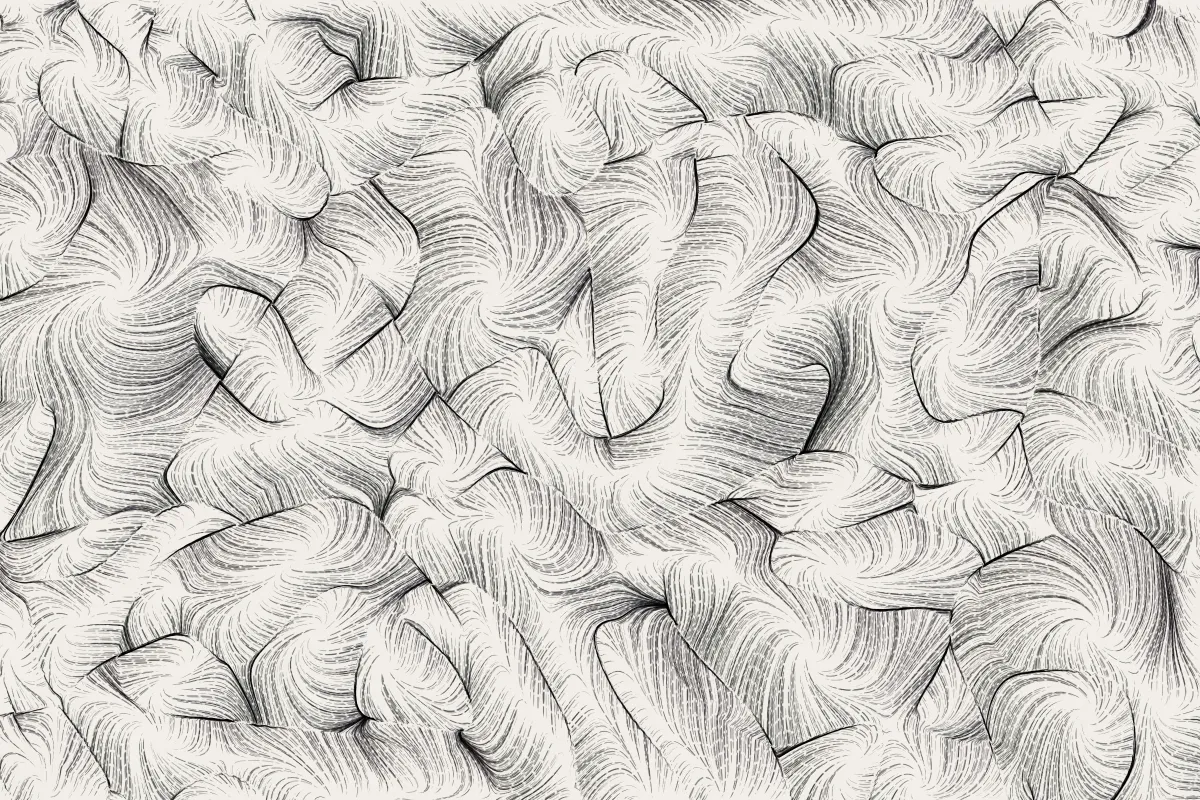
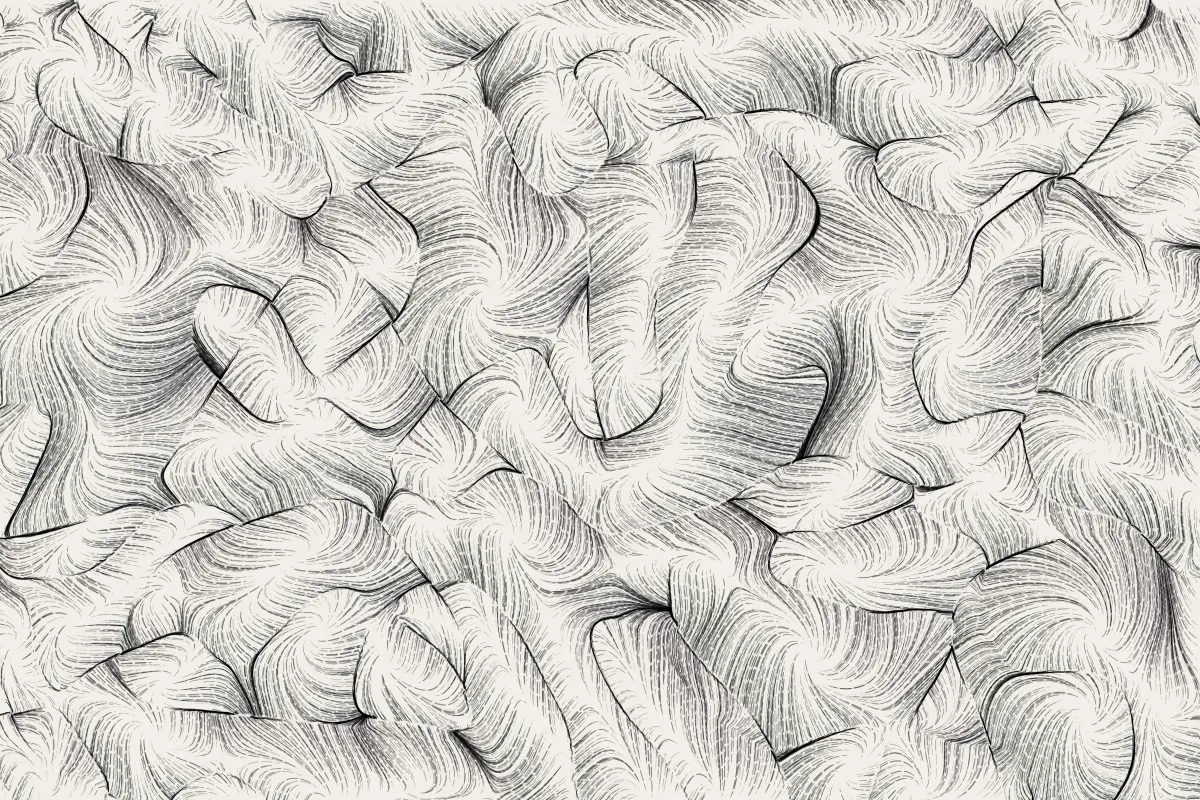
deploy: Jermolene/blog@98b68d79f772f2c87fe3692a0ab81c4a61357746

diff --git a/toys/swelled-rules/index.html b/toys/swelled-rules/index.html
@@ -412,6 +412,100 @@ function paint(g, s, W, H, marginFrac=.055, view=null) {
   }
   return {ox, oy, sc, W, H, fitSc, bw:b.w, bh:b.h};
 }
+// ---- Moving smoothly between states
+// A "spec" is either a state or {a, b, e}: the way from spec a to spec b, e of the way along (eased). Every value is
+// read through it, so a change made mid-way carries on from whatever was on screen. Numbers and colours are mixed;
+// the rule and column counts become fractional, an extra rule or column growing from nothing; a column's falling and
+// rising layers each have a presence, 0 to 1, that scales their rise, weight and bands, so a falling column turns
+// rising by flattening and lifting again; the weight and spacing curves are mixed as functions; band colours are
+// mixed rule by rule, a gap fading.
+const TWEEN_MS = 650;
+const ease = t => t < .5 ? 4*t*t*t : 1 - Math.pow(-2*t+2, 3)/2;
+const lerp = (a, b, t) => a + (b-a)*t;
+const rgbOf = hex => { const v = parseInt((hex || "#000000").slice(1), 16); return [v>>16 & 255, v>>8 & 255, v & 255]; };
+const rgbCss = c => `rgb(${c.map(Math.round).join(",")})`;
+const isMix = x => x && x.e !== undefined;
+const mixNum = (x, f) => isMix(x) ? lerp(mixNum(x.a, f), mixNum(x.b, f), x.e) : f(x);
+const mixRgb = (x, f) => { if (!isMix(x)) return f(x); const a = mixRgb(x.a, f), b = mixRgb(x.b, f); return a.map((v, i) => lerp(v, b[i], x.e)); };
+const mixBool = (x, k) => isMix(x) ? mixBool(x.e < .5 ? x.a : x.b, k) : x[k];
+const curveCache = new WeakMap();
+const curveOf = (s, k) => { let c = curveCache.get(s[k]); if (!c) curveCache.set(s[k], c = curveFn(s[k])); return c; };
+const colsLen = x => isMix(x) ? Math.max(colsLen(x.a), colsLen(x.b)) : x.cols.length;
+const layerOf = (s, c, rising) => { const t = s.cols[c]; return t === "x" || t === (rising ? "u" : "d") ? 1 : 0; };
+// a band's colour and presence, for rule i of a layer
+function bandOf(x, i, rising) {
+  if (!isMix(x)) { const seq = bandsOf(x, rising), c = seq[i % seq.length]; return c ? [...rgbOf(c), 1] : null; }
+  const a = bandOf(x.a, i, rising), b = bandOf(x.b, i, rising);
+  if (!a && !b) return null;
+  const A = a || [...b.slice(0, 3), 0], B = b || [...a.slice(0, 3), 0];
+  return A.map((v, k) => lerp(v, B[k], x.e));
+}
+// a flat, drawable picture of a spec
+function flatten(x) {
+  const num = k => mixNum(x, s => s[k]), D = {};
+  for (const k of ["w","p","rise","k","t","hair","stagger","spineW","tail","alpha"]) D[k] = num(k);
+  for (const k of ["paper","rule","spineC"]) D[k] = rgbCss(mixRgb(x, s => rgbOf(s[k])));
+  D.blend = mixBool(x, "blend"); D.riseOnTop = mixBool(x, "riseOnTop");
+  D.spineF = mixNum(x, s => s.spine ? 1 : 0);
+  D.n = num("n"); D.colsN = mixNum(x, s => s.cols.length); // only for the stagger's place in the height
+  const L = colsLen(x);
+  D.lay = Array.from({length:L}, (_, c) => [false, true].map(r => mixNum(x, s => c < s.cols.length ? layerOf(s, c, r) : 0)));
+  // a column that is coming or going narrows to nothing, so the others close up
+  D.cw = Array.from({length:L}, (_, c) => D.w*mixNum(x, s => c < s.cols.length ? 1 : 0));
+  D.cx = D.cw.map((_, c) => D.cw.slice(0, c).reduce((a, v) => a + v, 0));
+  const count = Math.max(1, Math.ceil(D.n - 1e-6)), run = (D.n-1)*D.p, ys = [], ws = [];
+  for (let i=0; i<count; i++) {
+    const u = D.n > 1 ? Math.min(1, i/(D.n-1)) : .5, grow = i > D.n-1 ? D.n - Math.floor(D.n) : 1;
+    ys.push(run*mixNum(x, s => curveOf(s, "sCurve")(u)));
+    ws.push(D.t*D.p*2*mixNum(x, s => curveOf(s, "wCurve")(u))*grow);
+  }
+  D.ys = ys; D.ws = ws;
+  D.band = (i, rising) => bandOf(x, i, rising);
+  return D;
+}
+// paint a flattened spec: as paint(), but each rule's bands are filled on their own, in their own colour
+function paintFlat(g, D, W, H, marginFrac, view) {
+  g.setTransform(g.__dpr||1, 0, 0, g.__dpr||1, 0, 0);
+  g.globalAlpha = 1; g.globalCompositeOperation = "source-over";
+  g.fillStyle = D.paper; g.fillRect(0, 0, W, H);
+  const bw = D.cw.reduce((a, v) => a + v, 0), tMax = Math.max(0, ...D.ws);
+  const body = (D.n-1)*D.p + D.rise*D.p + tMax + (D.colsN > 1 ? D.stagger*D.p : 0), bh = body + D.spineF*D.tail;
+  const m = Math.min(W,H)*marginFrac, fitSc = Math.min((W-2*m)/bw, (H-2*m)/bh), sc = fitSc*(view ? view.z : 1);
+  const ox = (W-bw*sc)/2 + (view ? view.x : 0), oy = (H-bh*sc)/2 + (view ? view.y : 0);
+  g.translate(ox, oy); g.scale(sc, sc);
+  const out = canvasOut(g), {ys, ws} = D, cols = D.lay.map((l, c) => c).filter(c => D.cw[c] > 1e-3);
+  // as ribbon(), for a column at its own place and width
+  const rib = (c, rising, y, a, b) => {
+    const H = D.rise*D.lay[c][rising ? 1 : 0]*D.p, kH = D.k*H, L = D.cx[c], R = L + D.cw[c];
+    const yL = rising ? y+H : y, yR = rising ? y : y+H, c1 = rising ? yL-kH : yL+kH, c2 = rising ? yR+kH : yR-kH;
+    out.m(L, yL+a); out.c(L, c1+a, R, c2+a, R, yR+a); out.l(R, yR+b); out.c(R, c2+b, L, c1+b, L, yL+b); out.z();
+  };
+  g.lineJoin = "round";
+  for (const rising of layerOrder(D)) {
+    const live = cols.filter(c => D.lay[c][rising ? 1 : 0] > 1e-3);
+    const off = c => c%2 ? D.stagger*D.p : 0, f = c => D.lay[c][rising ? 1 : 0];
+    if (D.alpha > 1e-3) {
+      g.globalCompositeOperation = D.blend ? "multiply" : "source-over";
+      for (let i=0; i<ys.length-1; i++) {
+        const b = D.band(i, rising); if (!b || b[3] <= 1e-3) continue;
+        g.globalAlpha = D.alpha*b[3]; g.fillStyle = rgbCss(b.slice(0, 3)); g.beginPath();
+        for (const c of live) { const a = ws[i]/2, z = ys[i+1]-ys[i]+ws[i+1]/2; rib(c, rising, off(c)+ys[i], a, a + (z-a)*f(c)); }
+        g.fill();
+      }
+      g.globalAlpha = 1; g.globalCompositeOperation = "source-over";
+    }
+    g.fillStyle = g.strokeStyle = D.rule;
+    for (const c of live) {
+      g.beginPath();
+      for (let i=0; i<ys.length; i++) rib(c, rising, off(c)+ys[i], 0, ws[i]*f(c));
+      g.fill();
+      if (D.hair > 0) { g.lineWidth = D.hair*f(c); g.stroke(); }
+    }
+  }
+  if (D.spineF > 1e-3) { g.fillStyle = D.spineC; const sw = D.spineW*D.spineF; g.fillRect(bw/2 - sw/2, 0, sw, bh); }
+  return {ox, oy, sc, W, H, fitSc, bw, bh};
+}
+
 function fit(cv, maxDpr) {
   const r = cv.getBoundingClientRect(), dpr = Math.min(devicePixelRatio||1, maxDpr);
   const w = Math.max(1, Math.round(r.width*dpr)), h = Math.max(1, Math.round(r.height*dpr));
@@ -467,9 +561,24 @@ const main = $("main"), mainCanvas = $("mainCanvas"), hover = $("hover"), hint =
 
 let raf = 0;
 function schedule() { if (!raf) raf = requestAnimationFrame(() => { raf = 0; drawMain(); }); }
+// what the main view shows: the state itself, or a move towards it under way (see tweenTo)
+let shown = null, tween = null;
+function tweenTo() {
+  const to = clone(S);
+  if (shown && JSON.stringify(isMix(shown) ? null : shown) === JSON.stringify(to)) { shown = to; tween = null; return; }
+  // carry on from what's on screen; a long chain of interruptions is cut short at its most recent target
+  let from = shown || to, depth = 0; for (let x = from; isMix(x); x = x.a) depth++;
+  if (depth > 3) from = from.b;
+  tween = {from, to, t0:performance.now()};
+}
 function drawMain() {
   const {g,W,H} = fit(mainCanvas, 2);
-  mainLayout = paint(g, S, W, H, .055, view);
+  if (tween) {
+    const t = Math.min(1, (performance.now() - tween.t0)/TWEEN_MS);
+    if (t < 1) { shown = {a:tween.from, b:tween.to, e:ease(t)}; mainLayout = paintFlat(g, flatten(shown), W, H, .055, view); schedule(); }
+    else { shown = tween.to; tween = null; }
+  }
+  if (!tween) { shown = clone(S); mainLayout = paint(g, S, W, H, .055, view); }
   $("zoomLevel").textContent = Math.round(view.z*100) + "%";
 }
 function drawNeighbours() {
@@ -813,7 +922,9 @@ function syncControls() {
   renderStrip();
   renderCurves();
 }
+// skipNeighbours marks a change made while dragging or typing, which is shown at once; any other moves there smoothly
 function changed(skipNeighbours = false) {
+  if (skipNeighbours) tween = null; else tweenTo();
   syncControls();
   schedule();
   if (!skipNeighbours && exploring) queueNeighbours();

diff --git a/sw.js b/sw.js
@@ -30,7 +30,7 @@ responses can still be stored.
 "use strict";
 
 self.PRECACHE = {
-	"version": "ac956e53bf94c1ec",
+	"version": "9fa1e322dac631de",
 	"urls": [
 		"/games/",
 		"/toys/",
